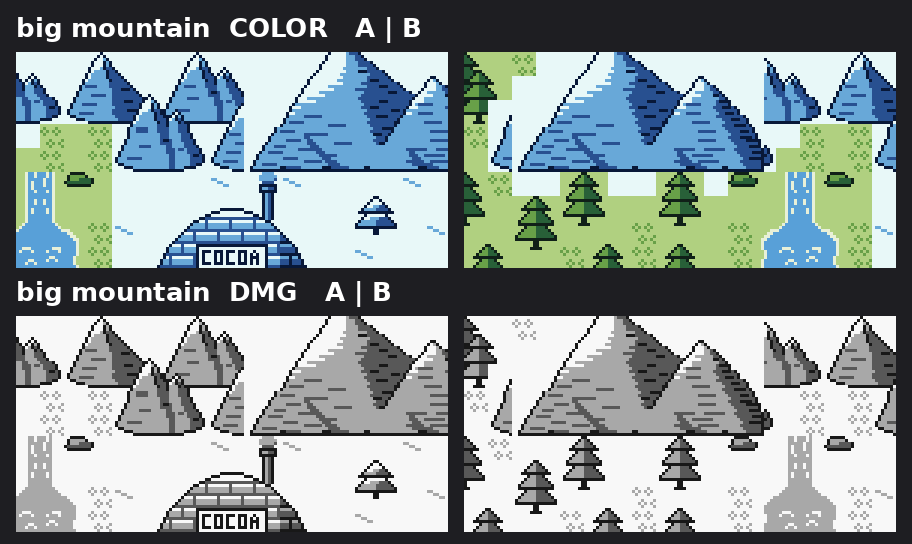
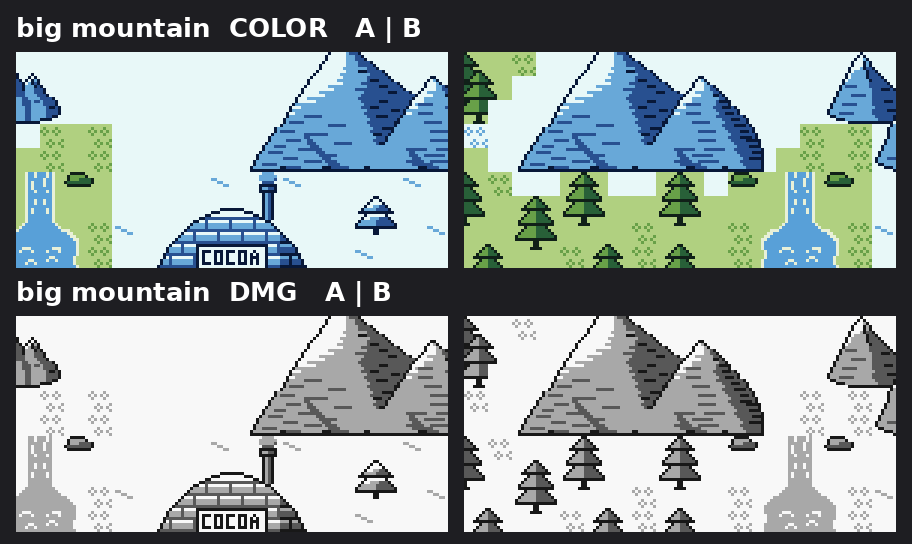
Story map import stage 1f: big mountain cuts fixed, round tree clumps redrawn with one trunk, option measures (coordinator review)
Proposals only, no goldens or engine budgets touched. Mountain A: the vertical sliver was a back peak cut by the paste box edge; the box now follows empty columns so peaks go whole or stay whole. Mountain B: one extra snow cell breaks the three-cell straight snow/grass edge. Round tree clumps redrawn: one whole tree in front, the others canopy-only above and to one side, the front outline wins. Measures for options A and C with Color ids against 1024 and the worst view in NOTES.md; new sheets copied over the s1e set.

Claude-Session: https://claude.ai/code/session_01WXumg9pvGTKbXyU3qBciuY

diff --git a/docs/dev/proposals/smap_import/clusters.py b/docs/dev/proposals/smap_import/clusters.py
@@ -12,27 +12,28 @@ D = "."
 
 
 def combo(piece, offsets):
+    """offsets: (dx, dy) of a whole tree or (dx, dy, "c") of a tree seen only by its canopy (the trunk is hidden behind the tree in front: rows 0..9 of the piece, no trunk drawn); the last is in front"""
     rows = piece[1]
     h, w = len(rows), len(rows[0])
-    W = max(dx for dx, dy in offsets) + w
-    H = max(dy for dx, dy in offsets) + h
+    W = max(o[0] for o in offsets) + w
+    H = max(o[1] + (10 if len(o) == 3 else h) for o in offsets)
     g = [[D] * W for _ in range(H)]
-    for dx, dy in offsets:
-        for j, r in enumerate(rows):
+    for o in offsets:
+        dx, dy = o[0], o[1]
+        for j, r in enumerate(rows[:10] if len(o) == 3 else rows):
             for i, c in enumerate(r):
                 if c != D:
                     g[dy + j][dx + i] = c
     return (piece[0], ["".join(r) for r in g])
 
 
-RR_R = combo(decor.ROUND, [(0, 0), (5, 6)])
-RR_L = combo(decor.ROUND, [(6, 0), (0, 6)])
-RRR = combo(decor.ROUND, [(5, 0), (0, 6), (9, 6)])
+RR_R = combo(decor.ROUND, [(0, 0, "c"), (6, 5)])                    # one whole tree in front, a second canopy peeking out above and to the left of it
+RR_L = combo(decor.ROUND, [(6, 0, "c"), (0, 5)])                    # same, the second canopy above and to the right
+RRR = combo(decor.ROUND, [(0, 1, "c"), (10, 0, "c"), (5, 6)])       # two canopies behind (left lower, right higher), one whole tree in front: a fat clump with one trunk
 PP = combo(decor.PINE, [(0, 0), (5, 6)])
 PPP = combo(decor.PINE, [(4, 0), (0, 6), (8, 6)])
-JJ = combo(decor.JUNGLE_TREE, [(0, 0), (5, 6)])
-JJJ = combo(decor.JUNGLE_TREE, [(5, 0), (0, 6), (9, 6)])
-
+JJ = combo(decor.JUNGLE_TREE, [(0, 0, "c"), (6, 5)])
+JJJ = combo(decor.JUNGLE_TREE, [(0, 1, "c"), (10, 0, "c"), (5, 6)])
 
 def stalks(w, h, specs, leaves):
     """specs: (x0, top, node rows); leaves: typed (x, y, v)"""
@@ -110,7 +111,11 @@ def apply(lay, trees=True, bamboo=True):
         for name, x, y, pal in BAMBOO_AT:
             S.append((piece(name, pal), x, y))
     if trees:
+        import os
+        skip = set(filter(None, os.environ.get("SMAP_SKIP_CLUSTERS", "").split(",")))     # e.g. RR_R,RR_L,RRR,JJ,JJJ: the round clusters dropped (the singles stay), the pine ones kept
         for name, x, y, gone in CLUSTERS:
+            if name in skip:
+                continue
             for kind, sx, sy in gone:
                 if not drop(kind, sx, sy):
                     miss.append((kind, sx, sy))

diff --git a/docs/dev/proposals/smap_import/big_mountain.py b/docs/dev/proposals/smap_import/big_mountain.py
@@ -105,6 +105,7 @@ def rows():
     return ["".join(r) for r in g]
 
 
+EXTRA_SNOW = {"B": [(33, 3)]}     # west edge of B's snow cells by row: 36 35 34 33 34 (was 36 35 34 34 34, three cells straight)
 PLACES = {"A": (444, -4, "the top right corner: cropped by the top edge (4 rows) and the east edge (16 columns), foot on the line under range C, behind the igloo's chimney"),
           "B": (280, -4, "the head of the river: cropped by the top edge (4 rows), the falls leave its foot to the east")}
 
@@ -112,6 +113,14 @@ PLACES = {"A": (444, -4, "the top right corner: cropped by the top edge (4 rows)
 def _pieces(px, x0, y0):
     """big connected pieces of non-snow pixels (8-connected, 30 px or more) inside this mountain's box: the range peaks, trees, the igloo.  Returns a list of pixel lists"""
     X0, X1, Y0, Y1 = max(x0, 0), min(x0 + W, 512), max(y0, 0), min(y0 + H, 512)
+
+    def empty_col(x):
+        return all(px[y][x] == 0 for y in range(Y0, Y1))
+
+    while X0 > 0 and not empty_col(X0):                     # widen the box to the nearest columns with nothing in them, so no peak is cut by the box edge
+        X0 -= 1
+    while X1 < 512 and not empty_col(X1 - 1):
+        X1 += 1
     seen, big = set(), []
     for Y in range(Y0, Y1):
         for X in range(X0, X1):
@@ -180,6 +189,11 @@ def apply(W_, WORLDS, key):
         for w in WORLDS:
             if w.pal[cy][cx] != "igloo":
                 w.pal[cy][cx] = "igloo"
+    for (cx, cy) in EXTRA_SNOW.get(key, []):                # typed: one cell tab on the snowfield's west edge, so the snow / grass line does not run straight down beside the foot
+        assert (cx, cy) not in WORLDS[0].roads
+        for w in WORLDS:
+            w.pal[cy][cx] = "igloo"
+        touched.add((cx, cy))
     return touched
 
 

diff --git a/docs/dev/proposals/smap_import/NOTES.md b/docs/dev/proposals/smap_import/NOTES.md
@@ -126,3 +126,23 @@ Ways to buy room under 1024 (r40 fallback set, A): no tree clusters 938 / 999 / 
 - **Which bend breaks the fit map.** The largest-fit map (no extras) has 3 windows with 9 palettes at (33..35,41). Bisected: (37,28) at r120 is the cause. Same map with (37,28) at r96 (950 / 1003 tiles, 0 over) or r24 (910 / 967, 0 over) passes; dropping (0,45) r96 or (37,46) r24 changes nothing (still 3 over). Its patch reaches row 43, into the windows of the (37,46) bend. With everything on, (37,28) beyond r40 gives 10 windows over (r96) or 33 (r120).
 - **Whole map** Color | DMG, light water, everything on, r40 with fallback (note: 15 Color tile ids over 1024), mountain A and B: s1e_whole_c40_A.png, s1e_whole_c40_B.png.
 - **For stage 3: the DMG falls frames on light water.** The approved falls frames are typed for dark water (foam 1, water 2). On light water foam maps to 0, the land shade, and the falls column washes out. Stage 3 needs typed DMG foam frames (foam against water at the light shades) for the falls tiles; nothing to do now.
+
+### Stage 1f (coordinator review of 1e) -- shown, none applied. These numbers replace the 1e tables, whose mountain and trees were older.
+- **Big mountain cuts fixed.** A: the sliver was a back peak cut by the paste box edge; the box now widens to the nearest empty columns, so a peak is removed whole or left whole (the three peaks left of A's foot are gone, the others stay). B: the snow / grass edge ran 3 cells straight; one typed extra snow cell at (33,3) makes the west edge 36 35 34 33 34 by row. The cell takes the `igloo` palette (already present in the windows), no new tile pixels.
+- **Round clusters redrawn** (clusters.py combo): each clump now has exactly one whole tree in front (one trunk); the others show only their canopy (rows 0..9 of the same tree, no trunk) above and to one side, and the front canopy's ink wins where they meet. RR_R, RR_L: canopy peeking up-left or up-right; RRR and JJJ: two canopies behind (left lower, right higher) and one whole tree in front. Pines unchanged. Sheets s1e_trees.png, s1e_zoo.png (before | after, Color and DMG).
+- **Measures** (SMAP_TILE_MAX=4096, bush at x 40; DMG / Color ids of 1024 / worst DMG view / windows over 8; generator ok = the full generator passed, Color above 1023 fails it):
+| run | DMG | Color of 1024 | worst | over 8 | ok |
+|---|---|---|---|---|---|
+| everything on, r8 corners, mountain A | 915 | 977 | 156 | 0 | yes |
+| same, mountain B | 926 | 988 | 156 | 0 | yes |
+| uniform r24, A | 942 | 1003 | 156 | 0 | yes |
+| uniform r24, B | 953 | 1014 | 156 | 0 | yes |
+| r40 fallback, all extras, A | 967 | 1029 | 159 | 0 | no, 5 over |
+| r40 fallback, all extras, B | 978 | 1040 | 159 | 0 | no |
+| Option C: (0,45) r96 + r40 fallback + bamboo + cacti + spill, no peaks, no tree clusters, A | 943 | 1000 | 154 | 0 | yes |
+| Option C, B | 954 | 1011 | 153 | 0 | yes |
+| Option A (read as r40 fallback, all extras): round clusters dropped (RR_R, RR_L, RRR, JJ, JJJ), pine clusters kept, A | 943 | 1004 | 159 | 0 | yes |
+| same, B | 954 | 1015 | 159 | 0 | yes |
+| same, only the lawn round clusters RR_R, RR_L, RRR dropped (jungle kept), A | 957 | 1019 | 159 | 0 | yes |
+| uniform r24, round clusters dropped, A | 918 | 978 | 155 | 0 | yes |
+The run scripts are in out/smap_import/ (run_meas11.sh), logs in out/smap_import/mm/f_*.log; table by mm_table.py. SMAP_SKIP_CLUSTERS=RR_R,RR_L,RRR,JJ,JJJ drops clusters by name.
